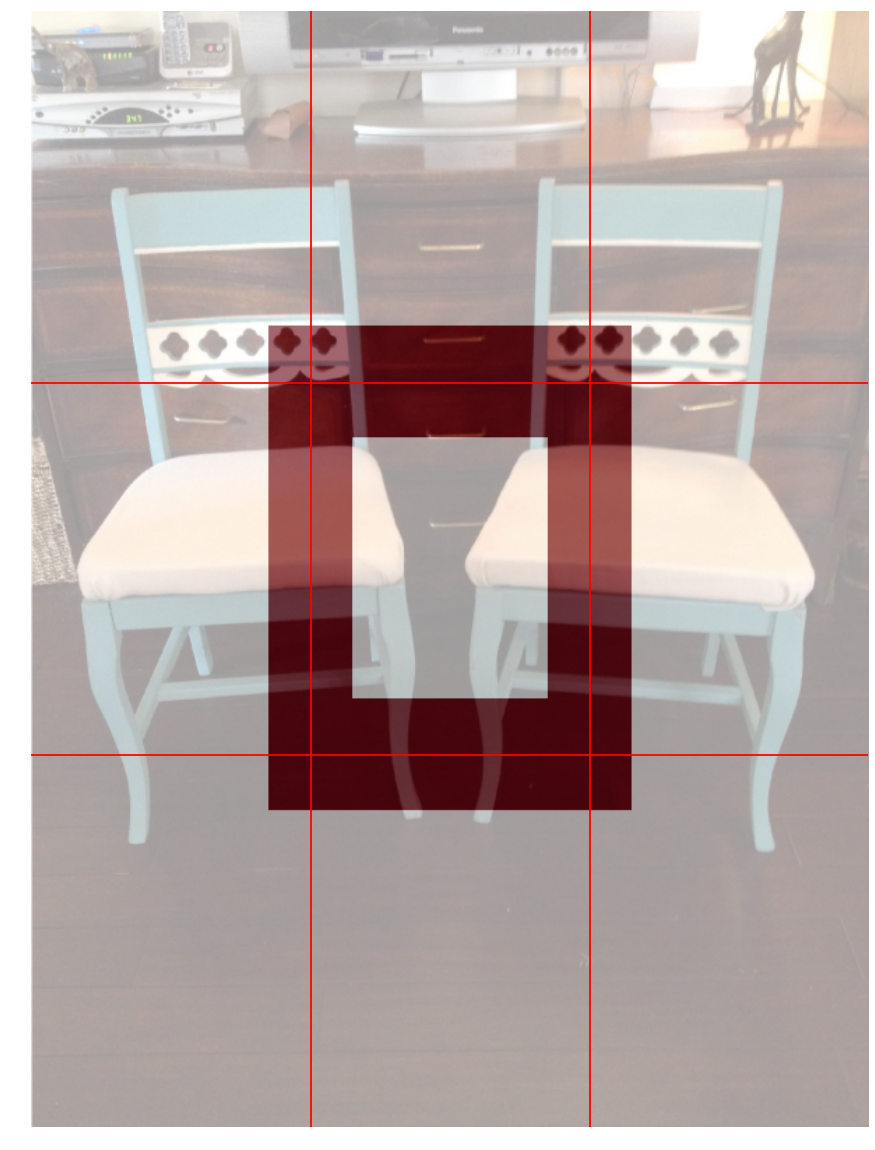
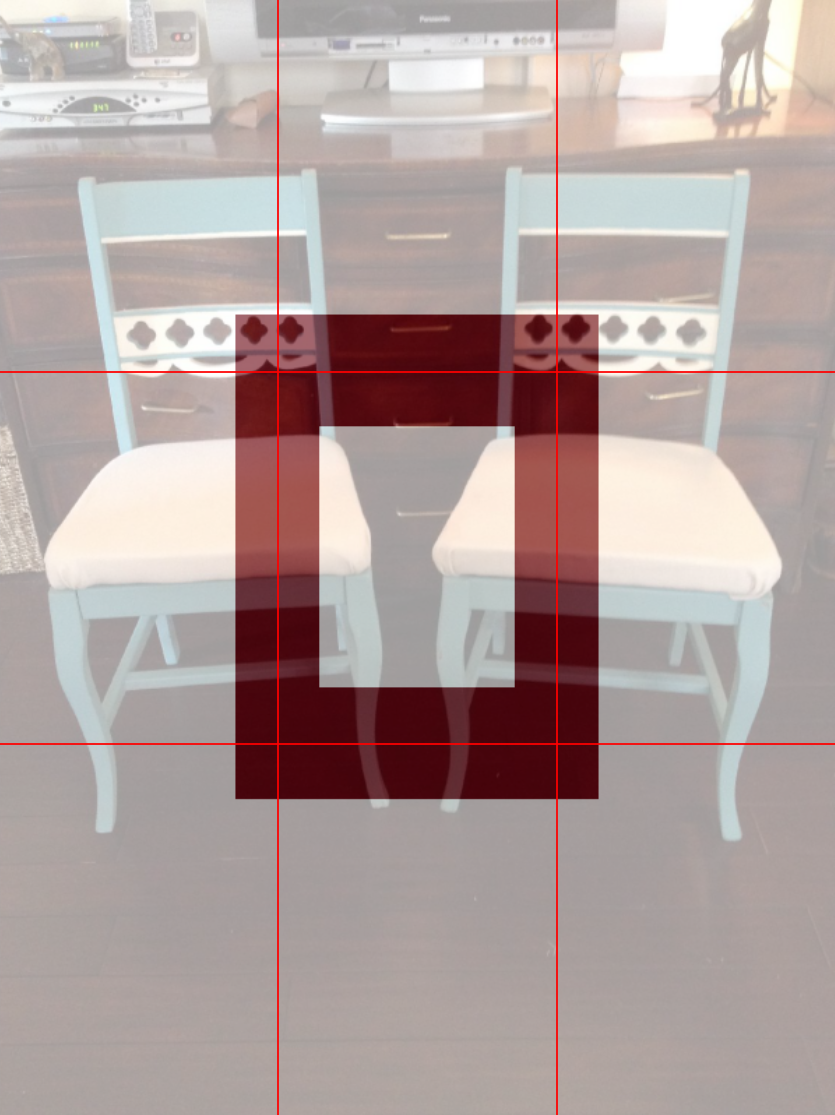
Organized Images

diff --git a/_site/2017/02/05/Automatic-Image-Quality-Assessment/index.html b/_site/2017/02/05/Automatic-Image-Quality-Assessment/index.html
@@ -286,13 +286,8 @@ Bottom: An image with high variation the blue color channel, indicating the pres
 <p>It is worth noting that the “color gradient” and “variation of color intensity” are similar, but are measuring two different quantities.  Specifically, the gradient features take correlation of nearby pixels into account, while the standard deviation is applied to the image as a whole.</p>
 
 <center>
-<div>
-<img src="https://raw.githubusercontent.com/Raknoche/Raknoche.github.io/master/_posts/Images/DecoRater/AverageColorGradient/AverageColorGradient_B0p0_original.png" width="300" /> <img src="https://raw.githubusercontent.com/Raknoche/Raknoche.github.io/master/_posts/Images/DecoRater/AverageColorGradient/AverageColorGradient_B0p0.png" width="285" />
-</div>
-
-<div>
-<img src="https://raw.githubusercontent.com/Raknoche/Raknoche.github.io/master/_posts/Images/DecoRater/AverageColorGradient/AverageColorGradient_B0p29_original.png" width="300" /> <img src="https://raw.githubusercontent.com/Raknoche/Raknoche.github.io/master/_posts/Images/DecoRater/AverageColorGradient/AverageColorGradient_B0p29.png" width="275" />
-</div>
+<img src="https://raw.githubusercontent.com/Raknoche/Raknoche.github.io/master/_posts/Images/DecoRater/AverageColorGradient/Organized.png" width="600" />
+&lt;/div&gt;
 
 <div style="width:600px;">
 <i> Top: An image with low horizontal gradients in the blue color channel

diff --git a/_posts/2017-02-05-Automatic-Image-Quality-Assessment.md b/_posts/2017-02-05-Automatic-Image-Quality-Assessment.md
@@ -86,10 +86,7 @@ Although a user won't have much control over the color of their pictures, the ov
 
 <center>
 <div class="container">
-<img src="https://raw.githubusercontent.com/Raknoche/Raknoche.github.io/master/_posts/Images/DecoRater/AverageColorIntensity/AverageColorIntensity_B15_original.png" Width="200"> <img src="https://raw.githubusercontent.com/Raknoche/Raknoche.github.io/master/_posts/Images/DecoRater/AverageColorIntensity/AverageColorIntensity_B15.png" Width="195">
-</div>
-
-<img src="https://raw.githubusercontent.com/Raknoche/Raknoche.github.io/master/_posts/Images/DecoRater/AverageColorIntensity/AverageColorIntensity_B188_original.png" Width="300"> <img src="https://raw.githubusercontent.com/Raknoche/Raknoche.github.io/master/_posts/Images/DecoRater/AverageColorIntensity/AverageColorIntensity_B188.png" Width="275">
+<img src="https://raw.githubusercontent.com/Raknoche/Raknoche.github.io/master/_posts/Images/DecoRater/AverageColorIntensity/Organized.png" Width="600"> 
 
 <div style="width:600px;">
 <i> Top: An image with low intensity in the blue color channel
@@ -133,12 +130,7 @@ In calculus, the "gradient" of a function defines how quickly that function chan
 It is worth noting that the "color gradient" and "variation of color intensity" are similar, but are measuring two different quantities.  Specifically, the gradient features take correlation of nearby pixels into account, while the standard deviation is applied to the image as a whole.
 
 <center>
-<div>
-<img src="https://raw.githubusercontent.com/Raknoche/Raknoche.github.io/master/_posts/Images/DecoRater/AverageColorGradient/AverageColorGradient_B0p0_original.png" Width="300"> <img src="https://raw.githubusercontent.com/Raknoche/Raknoche.github.io/master/_posts/Images/DecoRater/AverageColorGradient/AverageColorGradient_B0p0.png" Width="285">
-</div>
-
-<div>
-<img src="https://raw.githubusercontent.com/Raknoche/Raknoche.github.io/master/_posts/Images/DecoRater/AverageColorGradient/AverageColorGradient_B0p29_original.png" Width="300"> <img src="https://raw.githubusercontent.com/Raknoche/Raknoche.github.io/master/_posts/Images/DecoRater/AverageColorGradient/AverageColorGradient_B0p29.png" Width="275">
+<img src="https://raw.githubusercontent.com/Raknoche/Raknoche.github.io/master/_posts/Images/DecoRater/AverageColorGradient/Organized.png" Width="600">
 </div>
 
 <div style="width:600px;">
